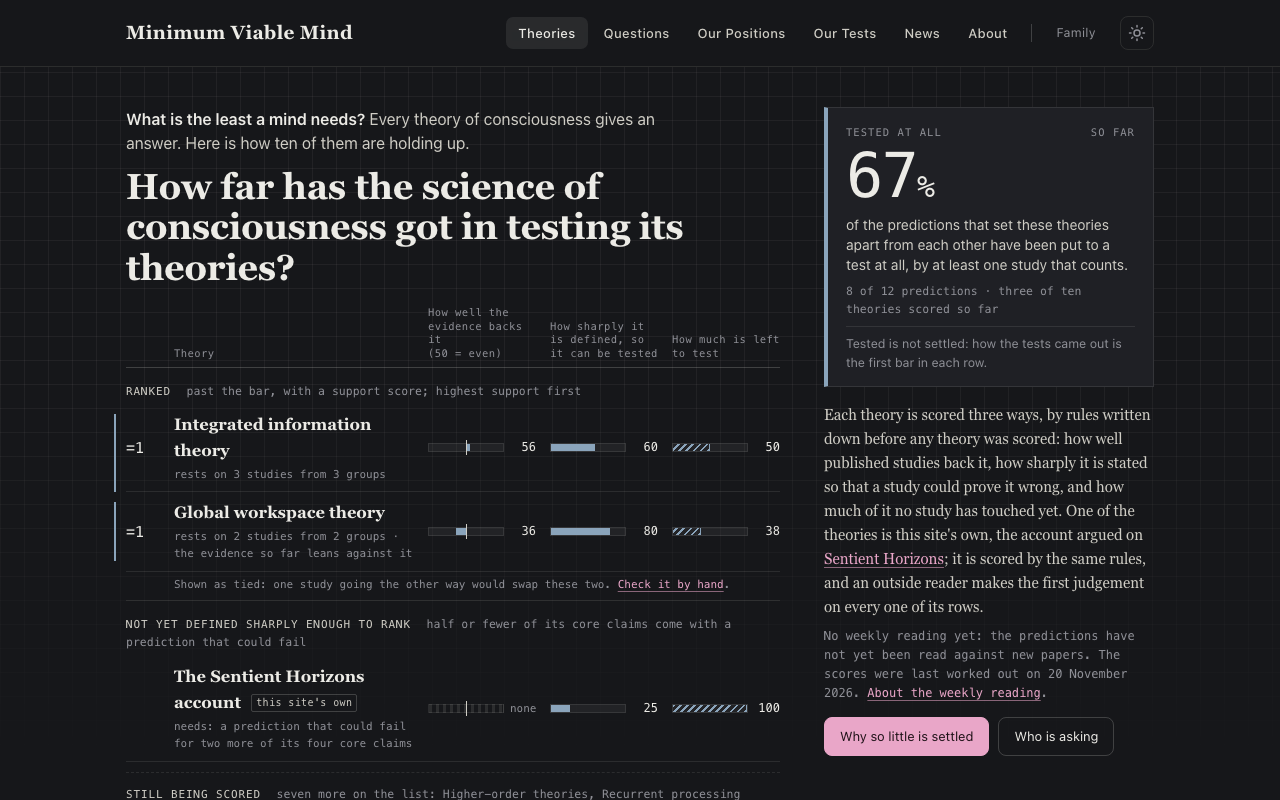
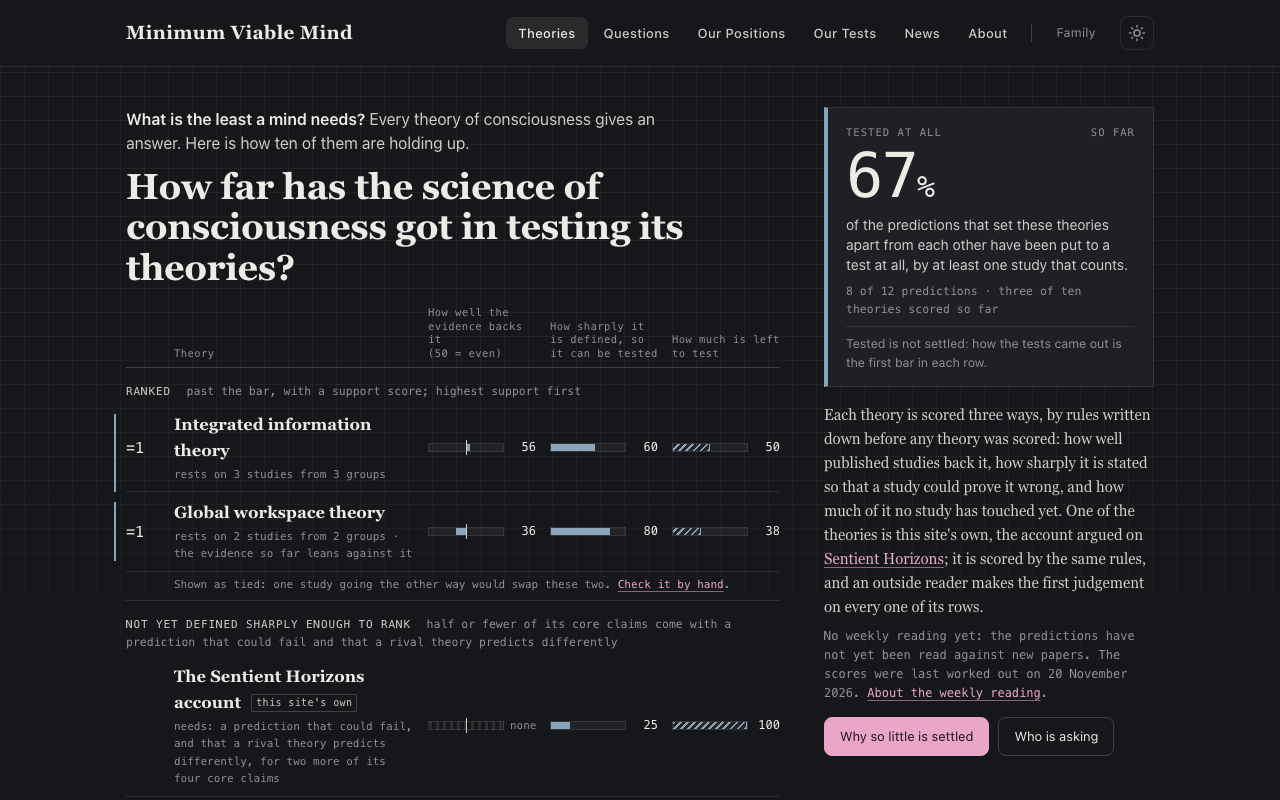
2026-11-21: Gemini cold reader run once under John's go ($0.0234); screenshots retaken with the corrected bar wording
Both readers read the first screen as a site about the theories of
consciousness, not an AI product or a build log. The answer is saved word for
word beside the Claude reader's; the spend is recorded in
docs/spending-record.md under Google. No copy changed.

diff --git a/docs/spending-record.md b/docs/spending-record.md
@@ -57,6 +57,7 @@ in the total is not recorded as paid from credits; the poll's Anthropic call, fo
 | 2026-10-24 | The split removal test's two free fixes, moved off the Mac | "Go on RunPod for the rest of the Minimum Viable Mind run, up to $2…" (John, relayed by the fourth weekend master session) | about $0.77 | `experiments/09-split-removal-test/rehearsal/fixes-findings-2026-10-24.md`; the row in the table further down |
 | 2026-11-20 | The theories tracker's stage 2 pilot: the second reader's blind reading of 48 judgement packets, one standard (not batch) call each | Google, by API (model `gemini-4-carbon`, the version string the API returned on every call) | "Yes, up to $10" (John, 2026-11-20, answering "Go on up to $10 for Gemini to read all 48 packets before December 1st?", relayed by the master session for the theories tracker) | $1.54 to $3.94; ceiling $10, enforced by the runner before every call (spend so far plus the most the next call could cost) | about $1.01 ($1.0065) by the runner's arithmetic on the token counts Google returned, at $2 per million input and $10 per million output tokens including thinking (Google's pricing page, read 2026-11-20); true bill on Google's console | `scripts/tracker_second_reader.py`; the raw answers with their usage in `data/tracker/second-reading/`; `docs/2026-11-20-stage2-pilot-report.md`, section 5 |
 | 2026-11-20 | The same pilot, two more blind readings: the Dellert commitment question put again with the 2019 registration's passages, and the Bellet hot-zone outcome | Google, by API (model `gemini-4-carbon`, as returned on both calls) | John's go extended to these two calls (2026-11-20, "Yes, as you lean", relayed by the master session), within the same $10 ceiling | about $0.04; ceiling $10 for the pilot's Gemini spend, with $1.01 already spent | about $0.04 ($0.0396) by the runner's arithmetic on the token counts Google returned; the pilot's Gemini total is about $1.05 ($1.0461); true bill on Google's console | `data/tracker/second-reading/com2-dellert-gwt-ignition.json` and `out-bellet-iit-posterior.json` |
+| 2026-11-21 | The theories tracker's stage 3 cold-reader test: the second reader (Gemini) shown the two screenshots of the new first screen, desktop and phone, and asked what the site is about; one standard call, no retry | Google, by API (model `gemini-4-carbon`, as returned) | "You can go up as high as you need to" (John, 2026-11-21, answering "Go on up to $0.25 for the Gemini cold reader?", relayed by the master session for the theories tracker); covers this one run only | worst case $0.12; ceiling $0.25, checked by the script before the call | about $0.02 ($0.0234) by the script's arithmetic on the token counts Google returned (2,362 in; 1,865 out, thinking included), at $2 and $10 per million (Google's pricing page, read 2026-11-20); true bill on Google's console | `scripts/cold_reader_gemini.py`; the answer with its usage in `docs/design/2026-11-21-stage3-site/cold-reader-gemini.json` |
 | 2026-09-17 to 2026-10-24 | Storage for the network volume on days with no machine, which has no ledger row | **None.** It is a standing charge, about $0.24 a day since late September | about $10.12, by subtraction | the measured total less every row above |
 | **All rented machines** | | | **$304.38** | |
 

diff --git a/docs/design/2026-11-21-stage3-site/cold-reader-gemini.md b/docs/design/2026-11-21-stage3-site/cold-reader-gemini.md
@@ -1,0 +1,13 @@
+# Cold-reader test, second reader: Gemini, 2026-11-21
+
+One standard call to `gemini-4-carbon`, under John's go of 2026-11-21 ("You can go up as high as you
+need to", for this one run), made by `scripts/cold_reader_gemini.py`. It was shown the two screenshots
+`01-home-light-desktop.png` and `03-home-light-phone.png` (retaken 2026-11-21, after the bar's wording
+was corrected) and given the same question as the Claude reader. Cost about $0.02 ($0.0234). Its answer,
+word for word (the raw response with its usage is in `cold-reader-gemini.json`):
+
+> 1. This website tracks and scores ten scientific theories of consciousness to see how well they hold up to testing. It grades each theory on whether published studies back it, how clearly testable it is, and how much of it remains untested. The creators also include and score their own theory alongside established ones.
+>
+> 2. It reads as being about the theories of consciousness. The main headline directly asks about "the science of consciousness," the "Theories" tab is highlighted in the top menu, and the centerpiece of the page is a table scoring academic ideas like "Integrated information theory" and "Global workspace theory" based on published studies. Nothing on the screen suggests an AI product for sale or a log of someone building software.
+>
+> 3. A few things confused me. First, the top two theories are both ranked "=1" despite having very different evidence scores (56 versus 36), which looks like a mistake until you read the fine print. Worse, a note says the scores were last worked out on "20 November 2026"—a date in the future, which makes me distrust the data. Finally, the site feels both unfinished and overly complicated: seven of the ten promised theories aren't even scored yet, and having to read instructions just to understand the three progress bars would make me leave.
